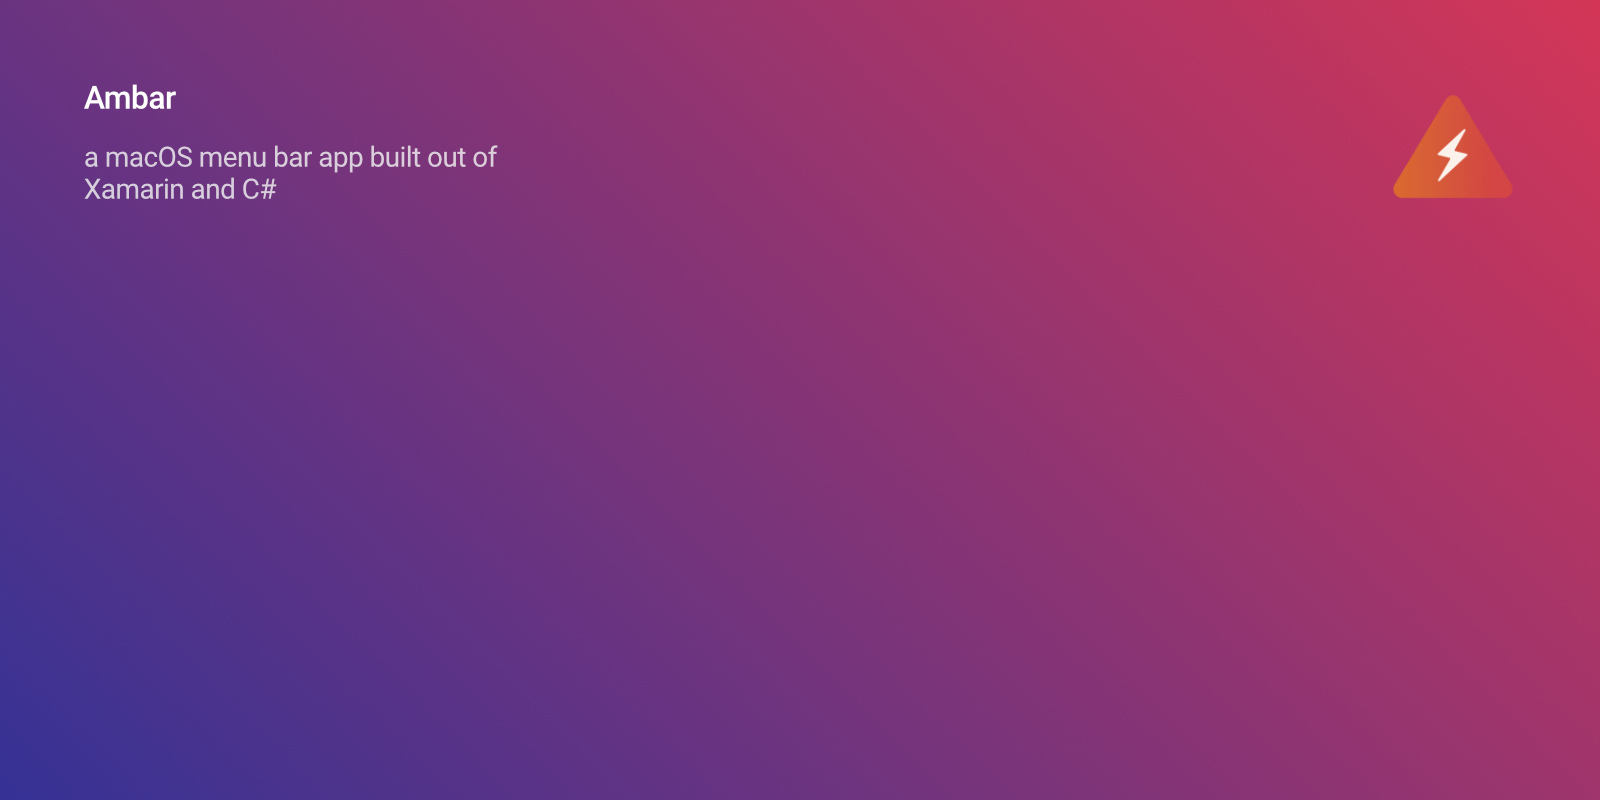
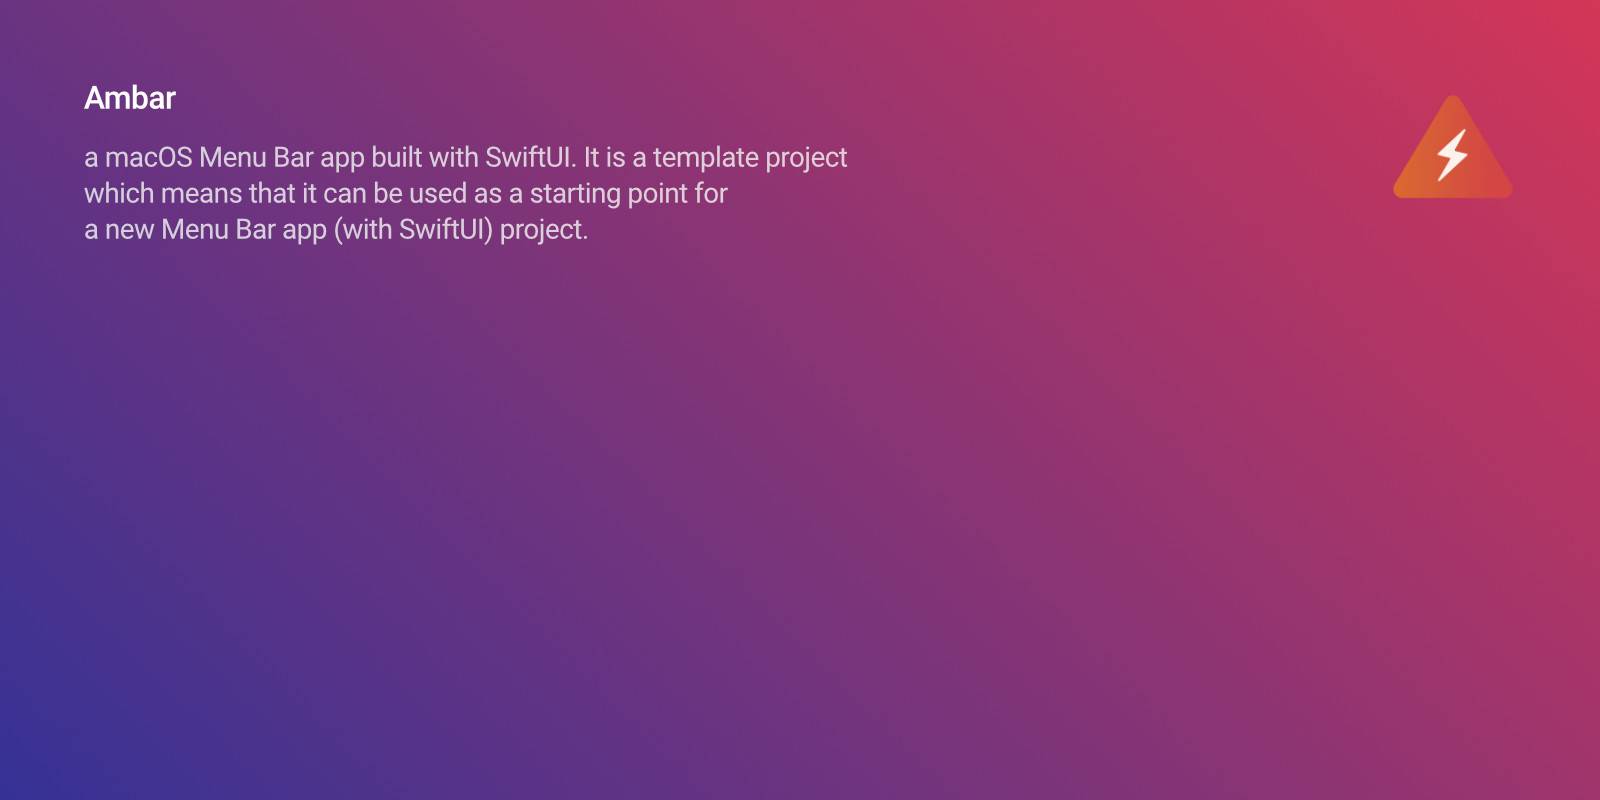
Updated store page

Changed region(s): [[0.0312, 0.1875, 0.5312, 0.3125]]

diff --git a/_pages/store.html b/_pages/store.html
@@ -25,14 +25,14 @@ keywords: store, shop, download
             </div>
             <div class="large-6 medium-6 columns right-collapse small-collapse">
               <div class="carol-store-thumbnail store-product-container square mb2">
-                <a href="https://github.com/AnaghSharma/Carol" target="_blank" class="cta action-button font-bold">DOWNLOAD NOW</a>
+                <a href="https://gumroad.com/l/jTGQEa" target="_blank" class="cta action-button font-bold">DOWNLOAD NOW</a>
               </div>
             </div>
           </div>
           <div class="row">
             <div class="columns left-collapse right-collapse small-collapse">
                 <div class="ambar-store-thumbnail store-product-container horizontal-rect-8 mb2">
-                    <a href="https://github.com/AnaghSharma/Ambar" target="_blank" style="position:absolute; left: 5%; margin: auto; bottom: 9%;" class="action-button font-bold">DOWNLOAD NOW</a>
+                    <a href="https://github.com/AnaghSharma/Ambar-SwiftUI" target="_blank" style="position:absolute; left: 5%; margin: auto; bottom: 9%;" class="action-button font-bold">DOWNLOAD NOW</a>
                 </div>
             </div>
           </div>
